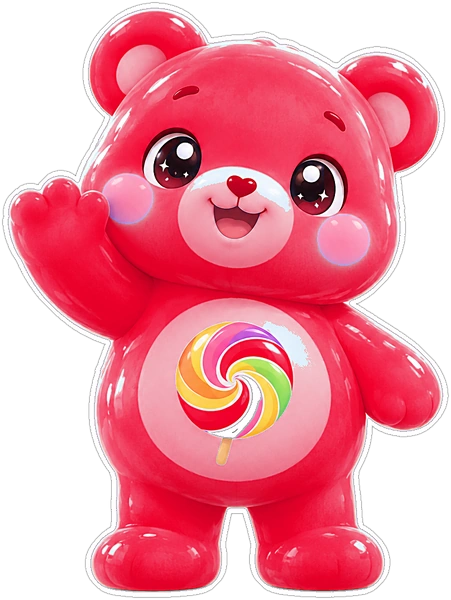
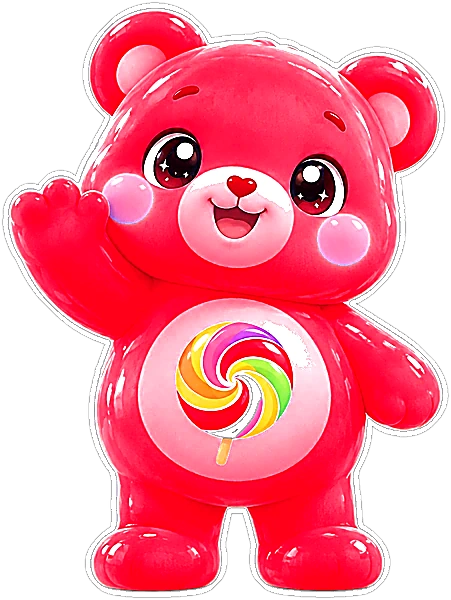
Fix X buttons on every popup, faster bear hop from the level just passed, crisper mascot

Changed region(s): [[0.0, 0.0, 0.9933, 1.0], [0.1242, 0.39, 0.1863, 0.42]]

diff --git a/app.js b/app.js
@@ -210,7 +210,7 @@
       b.innerHTML = html;
       b.onclick = () => { S.unlock(); S.tap(); openPrelevel(lv); };
       map.appendChild(b);
-      if (lv === level) map.insertAdjacentHTML('beforeend', '<div class="mascot" style="left:' + p.x + 'px;top:' + (p.y - 30) + 'px"><svg><use href="#gumi"/></svg></div>');
+      if (lv === (mascotAt || level)) map.insertAdjacentHTML('beforeend', '<div class="mascot" style="left:' + p.x + 'px;top:' + (p.y - 30) + 'px"><svg><use href="#gumi"/></svg></div>');
     }
   }
   function scrollToLevel(lv) {
@@ -219,6 +219,7 @@
     window.scrollTo(0, Math.max(0, y - window.innerHeight * 0.55));
   }
   let pendingHop = null;   // set when a win moves you on, played the next time the map is shown
+  let mascotAt = 0;   // while set, the bear is drawn on this level instead of the current one
   async function hopTo(from, to) {
     // our bear jumps from the level you just passed to the next one and stands there
     const g = mapGeom(), a = g.pos(from), b = g.pos(to), map = $('map'), still = map.querySelector('.mascot');
@@ -233,14 +234,14 @@
       { transform: 'translate(' + dx * 0.5 + 'px,' + (dy * 0.5 - 90) + 'px) scale(1.08,1.16)', offset: 0.5 },
       { transform: 'translate(' + dx + 'px,' + dy + 'px) scale(1.16,.84)', offset: 0.88 },
       { transform: 'translate(' + dx + 'px,' + dy + 'px) scale(1,1)' }
-    ], { duration: 950, easing: 'ease-in-out', fill: 'forwards' });
+    ], { duration: 520, easing: 'cubic-bezier(.3,.1,.3,1)', fill: 'forwards' });
     await anim.finished.catch(() => {});
     S.candy((to - 1) % 10, 3); buzz(15);
     const node = map.querySelector('.node[data-lv="' + to + '"]');
     if (node) node.animate([{ transform: 'scale(1)' }, { transform: 'scale(1.3)' }, { transform: 'scale(1)' }], { duration: 400 });
     if (still) still.style.visibility = '';
     h.remove();
-    await sleep(750);   // the bear stands on its new level for a moment
+    mascotAt = 0; await sleep(260);
   }
 
   /* ---------- boards ---------- */
@@ -921,19 +922,21 @@
   /* ---------- navigation ---------- */
   async function toMap() {
     const p = pendingHop; pendingHop = null;
+    if (p) mascotAt = p.from;
     await transition(() => { renderHome(); show('home'); scrollToLevel(level); });
-    if (p) { await sleep(250); await hopTo(p.from, p.to); }
+    if (p) { await sleep(120); await hopTo(p.from, p.to); }
   }
   async function nextLevel() {
     $('win').hidden = true;
     if (cur.meta.kind !== 'level') { await toMap(); return; }
     const from = cur.meta.level, to = level; pendingHop = null;
     try {
+      mascotAt = from;
       await transition(() => { renderHome(); show('home'); scrollToLevel(to); });
-      await sleep(200);
-      await Promise.race([hopTo(from, to), sleep(3500)]);
+      await sleep(100);
+      await Promise.race([hopTo(from, to), sleep(2500)]); mascotAt = 0;
       if (V && to > 1 && (to - 1) % 10 === 0) V.say('Welcome to ' + zoneOf(to).name + '!', true);
-      await sleep(250);
+      await sleep(120);
       await new Promise((res) => openPrelevel(to, () => transition(() => startLevel(to)).then(res)));
     } catch (e) {
       console.error(e);
@@ -947,7 +950,13 @@
   $('undoBtn').onclick = undo;
   document.querySelectorAll('.card').forEach((card) => {
     const x = document.createElement('button'); x.type = 'button'; x.className = 'xclose'; x.setAttribute('aria-label', 'Close');
-    x.onclick = () => { for (const id of ['#howClose', '#wheelClose', '#chestClose', '#questClose', '#giftClose', '#gamesClose', '#memClose', '#tossClose', '#rankClose', '#hintCancel', '#shopClose', '#colClose', '#pfClose', '#bonusClaim', '#homeBtn', '#loseHome']) { const b = card.querySelector(id); if (b) { b.click(); return; } } };
+    x.onclick = (e) => {
+      e.stopPropagation(); S.tap();
+      const ov = card.closest('.overlay'); if (!ov) return;
+      const ids = ['#rwOk', '#howClose', '#wheelClose', '#chestClose', '#questClose', '#giftClose', '#gamesClose', '#memClose', '#tossClose', '#rankClose', '#hintCancel', '#shopClose', '#colClose', '#pfClose', '#homeBtn', '#loseHome', '#bonusClaim'];
+      for (const id of ids) { const b = card.querySelector(id); if (b) { b.click(); if (ov.hidden) return; break; } }
+      ov.hidden = true;                                   // any popup without its own button just closes
+    };
     card.appendChild(x);
   });
   $('rankBtn').onclick = openRanking;

diff --git a/sw.js b/sw.js
@@ -1,5 +1,5 @@
 /* Candoku service worker: cache the app shell so it works offline. Bump VERSION on each release. */
-const VERSION = 'candoku-v59';
+const VERSION = 'candoku-v60';
 const FILES = ['./', 'index.html', 'style.css', 'engine.js', 'hints.js', 'seeds.js', 'sound.js', 'music.js', 'voice.js', 'app.js', 'manifest.webmanifest', 'icon-192.png', 'icon-180.png', 'icon-192.png', 'icon-512.png', 'icons/lollipop.png', 'icons/candy.png', 'icons/chocolate_bar.png', 'icons/doughnut.png', 'icons/cupcake.png', 'icons/cookie.png', 'icons/cherries.png', 'icons/soft_ice_cream.png', 'icons/shortcake.png', 'icons/dango.png', 'art/bg_0.jpg', 'art/bg_1.jpg', 'art/bg_2.jpg', 'art/bg_3.jpg', 'art/bg_4.jpg', 'art/bg_5.jpg', 'art/bg_6.jpg', 'art/bg_7.jpg', 'art/bg_8.jpg', 'art/ic_undo.webp', 'art/ic_hint.webp', 'art/ic_wand.webp', 'art/ic_maybe.webp', 'art/ic_restart.webp', 'art/ic_coin.webp', 'art/ic_chest.webp', 'art/ic_wheel.webp', 'art/ic_games.webp', 'art/nav_gifts.webp', 'art/nav_quests.webp', 'art/nav_home.webp', 'art/nav_shop.webp', 'art/nav_rank.webp', 'art/ic_heart.webp', 'art/ic_heart_off.webp', 'art/cd_lollipop.webp', 'art/cd_candy.webp', 'art/cd_chocolate_bar.webp', 'art/cd_doughnut.webp', 'art/cd_cupcake.webp', 'art/cd_cookie.webp', 'art/cd_cherries.webp', 'art/cd_soft_ice_cream.webp', 'art/cd_shortcake.webp', 'art/cd_dango.webp', 'art/tool_undo.webp', 'art/tool_hint.webp', 'art/tool_wand.webp', 'art/tool_maybe.webp', 'art/tool_maybe_green.webp', 'art/tool_restart.webp', 'art/ribbon.webp', 'art/ribbon_teal.webp', 'art/panel_blue.webp', 'art/ic_shield.webp', 'art/ic_double.webp', 'art/ic_sweeper.webp', 'art/ic_lens.webp', 'audio/voice/reward1.mp3', 'audio/voice/reward2.mp3', 'audio/voice/reward3.mp3', 'audio/voice/bigreward.mp3', 'audio/voice/wandget.mp3', 'art/gumi_pirate.webp', 'art/gumi_astronaut.webp', 'art/gumi_chef.webp', 'art/gumi_ninja.webp', 'art/btn_green.webp', 'art/btn_orange.webp', 'art/btn_blue.webp', 'art/logo.webp', 'art/ribbon_0.webp', 'art/ribbon_1.webp', 'art/ribbon_2.webp', 'art/ribbon_3.webp', 'art/ribbon_4.webp', 'art/ribbon_5.webp', 'art/ribbon_6.webp', 'art/ribbon_7.webp', 'art/ribbon_8.webp', 'art/ribbon_9.webp', 'art/gumi.webp', 'art/gumi_hero.webp', 'art/star_gold.webp', 'art/star_grey.webp', 'art/gumi_blue.webp', 'art/gumi_red.webp', 'art/panel.webp', 'audio/sfx/n0.mp3', 'audio/sfx/n1.mp3', 'audio/sfx/n2.mp3', 'audio/sfx/n3.mp3', 'audio/sfx/n4.mp3', 'audio/sfx/n5.mp3', 'audio/sfx/n6.mp3', 'audio/sfx/n7.mp3', 'audio/sfx/n8.mp3', 'audio/sfx/fanfare.mp3', 'audio/sfx/stars.mp3', 'audio/music/menu.mp3', 'audio/music/w0.mp3', 'audio/music/w1.mp3', 'audio/music/w2.mp3', 'audio/music/w3.mp3', 'audio/voice/close.mp3', 'audio/voice/delicious.mp3', 'audio/voice/divine.mp3', 'audio/voice/first.mp3', 'audio/voice/go.mp3', 'audio/voice/hard.mp3', 'audio/voice/intro1.mp3', 'audio/voice/intro2.mp3', 'audio/voice/intro3.mp3', 'audio/voice/letsplay.mp3', 'audio/voice/lose.mp3', 'audio/voice/nice.mp3', 'audio/voice/perfect.mp3', 'audio/voice/ready.mp3', 'audio/voice/sugartastic.mp3', 'audio/voice/tasty.mp3', 'audio/voice/veryhard.mp3', 'audio/voice/verytasty.mp3', 'audio/voice/welcome.mp3', 'audio/voice/yummy.mp3', 'audio/voice/z0.mp3', 'audio/voice/z1.mp3', 'audio/voice/z2.mp3', 'audio/voice/z3.mp3', 'audio/voice/z4.mp3', 'audio/voice/z5.mp3', 'audio/voice/z6.mp3', 'audio/voice/z7.mp3', 'audio/voice/z8.mp3'];
 self.addEventListener('install', (e) => {
   e.waitUntil(caches.open(VERSION).then((c) => c.addAll(FILES)).then(() => self.skipWaiting()));

diff --git a/index.html b/index.html
@@ -14,7 +14,7 @@
 <link rel="apple-touch-icon" href="icon-180.png">
 <link rel="preconnect" href="https://fonts.googleapis.com"><link rel="preconnect" href="https://fonts.gstatic.com" crossorigin>
 <link rel="stylesheet" href="https://fonts.googleapis.com/css2?family=Poppins:wght@600;700;800&display=swap">
-<link rel="stylesheet" href="style.css?v=62">
+<link rel="stylesheet" href="style.css?v=63">
 </head>
 <body>
 <div id="scene" aria-hidden="true"></div>
@@ -183,7 +183,7 @@
     <button class="btn" id="clearBtn" type="button" aria-label="Restart" title="Restart"><img class="tico" src="art/tool_restart.webp" alt="" draggable="false"></button>
   </div>
   <div class="tools2"><button class="btn" id="sweepBtn" type="button" aria-label="Sweeper" title="Sweeper"><img class="tico" src="art/ic_sweeper.webp" alt="" draggable="false"><i class="badge" id="sweepBtnBadge">0</i></button><button class="btn" id="lensBtn" type="button" aria-label="Magnifier" title="Magnifier"><img class="tico" src="art/ic_lens.webp" alt="" draggable="false"><i class="badge" id="lensBtnBadge">0</i></button></div>
-  <p class="help">Tap: X (tap again to remove). Double tap: candy. Hold a square or use Maybe to mark a ? <span class="ver">v62</span></p>
+  <p class="help">Tap: X (tap again to remove). Double tap: candy. Hold a square or use Maybe to mark a ? <span class="ver">v63</span></p>
 </main>
 
 <!-- WIN -->
@@ -430,12 +430,12 @@
   <button type="button" id="navShop"><img class="navico" src="art/nav_shop.webp" alt="" draggable="false"><span>Shop</span></button>
   <button type="button" id="navRank"><img class="navico" src="art/nav_rank.webp" alt="" draggable="false"><span>Ranking</span></button>
 </nav>
-<script src="engine.js?v=62"></script>
-<script src="hints.js?v=62"></script>
-<script src="seeds.js?v=62"></script>
-<script src="sound.js?v=62"></script>
-<script src="music.js?v=62"></script>
-<script src="voice.js?v=62"></script>
-<script src="app.js?v=62"></script>
+<script src="engine.js?v=63"></script>
+<script src="hints.js?v=63"></script>
+<script src="seeds.js?v=63"></script>
+<script src="sound.js?v=63"></script>
+<script src="music.js?v=63"></script>
+<script src="voice.js?v=63"></script>
+<script src="app.js?v=63"></script>
 </body>
 </html>

diff --git a/style.css b/style.css
@@ -813,3 +813,9 @@ body,button,input,textarea{font-family:'Poppins',system-ui,sans-serif}
 /* a bigger bear on the map, standing right on its level circle */
 .mascot{width:92px;height:96px;margin:-84px 0 0 -46px}
 .hopper.gumi{width:92px;height:96px;margin:-84px 0 0 -46px}
+
+.card .xclose{pointer-events:auto;cursor:pointer;z-index:5}
+.overlay .card{position:relative}
+
+.mascot img,.mascot svg,.hopper.gumi svg,.win-gumi svg,.hero-gumi{image-rendering:auto}
+.mascot,.hopper.gumi,.win-gumi svg{filter:contrast(1.06) saturate(1.12) drop-shadow(0 0 9px rgba(255,238,160,.95)) drop-shadow(0 3px 2px rgba(0,0,0,.4))}
